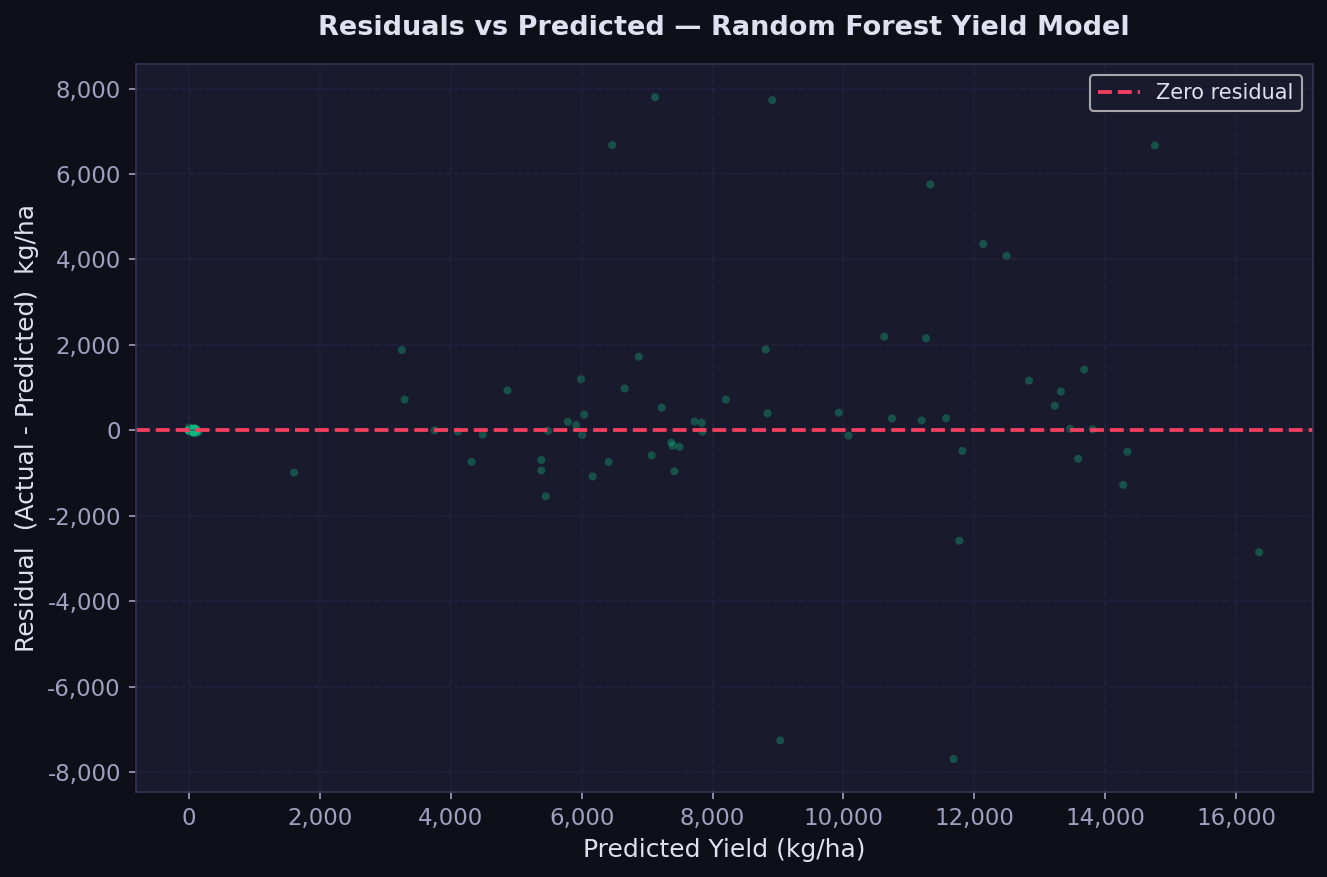
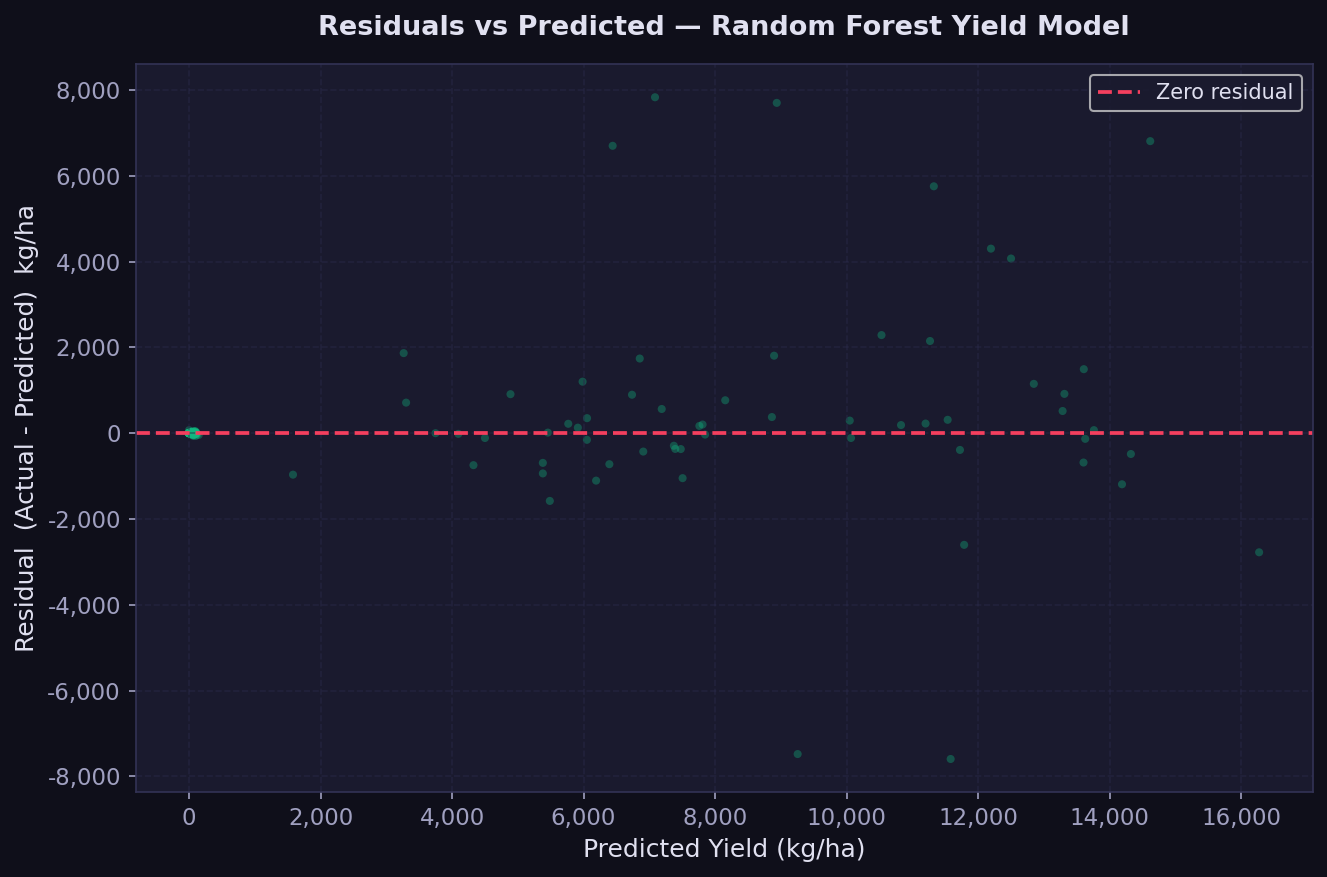
Update model with reduced size

diff --git a/backend/app/services/model_downloader.py b/backend/app/services/model_downloader.py
@@ -18,7 +18,8 @@ load_dotenv()
 
 _SERVICE_DIR = Path(__file__).resolve().parent          # .../backend/app/services
 _PROJECT_ROOT = _SERVICE_DIR.parents[2]                 # .../FarmIntel
-_CACHE_DIR = _PROJECT_ROOT / "backend" / "ml-models-cache"
+# _CACHE_DIR = _PROJECT_ROOT / "backend" / "ml-models-cache"
+_CACHE_DIR = Path("tmp/farmintel_models")
 
 # Define the exact files needed per stage based on ml_service.py
 _STAGE_FILES = {
@@ -80,25 +81,41 @@ class ModelDownloader:
             
             files = _STAGE_FILES.get(stage, [])
             for file_path in files:
-                local_path = _CACHE_DIR / file_path
+                logger.info(f"Checking '{file_path}'...")
+
+                try:
+                    downloaded_path = hf_hub_download(
+                        repo_id=self._repo_id,
+                        filename=file_path,
+                        local_dir=str(_CACHE_DIR),
+                        local_dir_use_symlinks=False,
+                        token=self._token,
+                    )
+
+                    logger.info(f"Ready: {downloaded_path}")
+
+                except Exception as e:
+                    logger.exception(f"Failed to prepare '{file_path}'")
+                    raise
+                # local_path = _CACHE_DIR / file_path
                 
-                # Check if it physically exists first so we can log a cache hit
-                if local_path.exists():
-                    logger.info(f"[CACHE HIT] {file_path} already exists locally.")
-                else:
-                    logger.info(f"[DOWNLOADING] {file_path} from Hugging Face ({self._repo_id})...")
-                    try:
-                        hf_hub_download(
-                            repo_id=self._repo_id,
-                            filename=file_path,
-                            local_dir=str(_CACHE_DIR),
-                            local_dir_use_symlinks=False,
-                            token=self._token
-                        )
-                        logger.info(f"[DOWNLOAD COMPLETE] {file_path}")
-                    except Exception as e:
-                        logger.error(f"[DOWNLOAD FAILED] Failed to download {file_path}: {e}")
-                        raise e
+                # # Check if it physically exists first so we can log a cache hit
+                # if local_path.exists():
+                #     logger.info(f"[CACHE HIT] {file_path} already exists locally.")
+                # else:
+                #     logger.info(f"[DOWNLOADING] {file_path} from Hugging Face ({self._repo_id})...")
+                #     try:
+                #         hf_hub_download(
+                #             repo_id=self._repo_id,
+                #             filename=file_path,
+                #             local_dir=str(_CACHE_DIR),
+                #             local_dir_use_symlinks=False,
+                #             token=self._token
+                #         )
+                #         logger.info(f"[DOWNLOAD COMPLETE] {file_path}")
+                #     except Exception as e:
+                #         logger.error(f"[DOWNLOAD FAILED] Failed to download {file_path}: {e}")
+                #         raise e
 
             self._downloaded_stages.add(stage)
             logger.info(f"All {stage} artifacts are ready.")